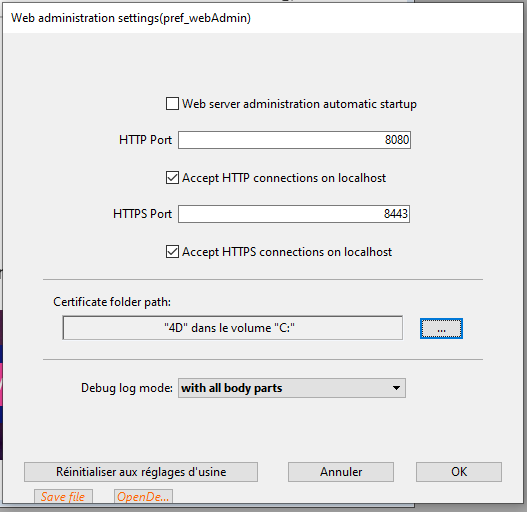
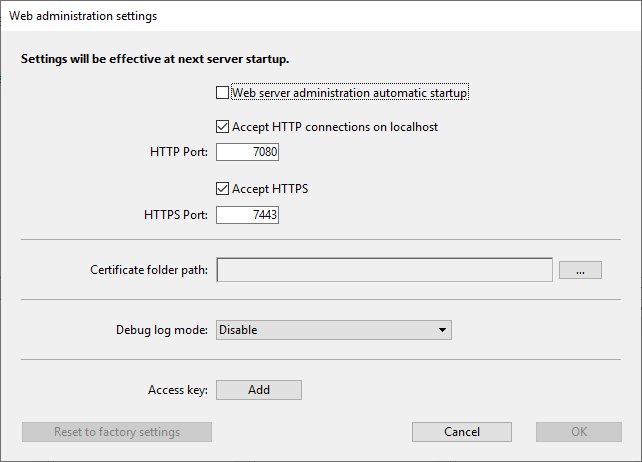
tempo

diff --git a/website/siteConfig.js b/website/siteConfig.js
@@ -37,7 +37,7 @@ const siteConfig = {
   // For top-level user or org sites, the organization is still the same.
   // e.g., for the https://JoelMarcey.github.io site, it would be set like...
   //   organizationName: 'JoelMarcey'
-  // customDocsPath: 'docsPostProcessed', //uniquement local
+  customDocsPath: 'docsPostProcessed', //uniquement local
   docsUrl:'',
 
   // For no header links in the top nav bar -> headerLinks: [],

diff --git a/docs/Admin/webAdmin.md b/docs/Admin/webAdmin.md
@@ -49,16 +49,16 @@ open ~/Desktop/4D.app --webadmin-auto-start true
 
 You can start or stop the `WebAdmin` web server for your project at any moment:
 
-- If you use a 4D application with interface, select **Start/Stop Web admin server** from the **Administration** menu.
+- If you use a 4D application with interface, select **Start/Stop Server** from the **Administration** menu.
 
 - Whether you use 4D application which is headless or not, you can execute the [.start()](API/webServerClass.md#start) or [.stop()](API/webServerClass.md#stop) function on the `WebAdmin` web server once it is instanciated.  
 
 
 ## WebAdmin Settings
 
-You can configure the WebAdmin component using the WebAdmin settings dialog box. Configuring the WebAdmin component is mandatory in particular if you want to define the access key. By default when the access key is not set, access is free. 
+You can configure the WebAdmin component using the WebAdmin settings dialog box. Configuring the WebAdmin component is mandatory in particular if you want to define the [**access key**](#access-key). By default when the access key is not set, access is free. 
 
-To open the WebAdmin settings dialog box, select **WebAdmin Settings** in the **Administration** menu. 
+To open the WebAdmin settings dialog box, select **Settings...** in the **Administration** menu. 
 
 The WebAdmin Settings dialog box is displayed:
 
@@ -70,7 +70,7 @@ Check this option if you want the Admin web server to be automatically launched 
 
 #### HTTP Port 
 
-Port number to use for connections through HTTP to the Admin web server. Default value is 8080. This option is only used:
+Port number to use for connections through HTTP to the Admin web server. Default value is 7080. This option is only used:
 
 - if HTTP connections to the Admin web server are allowed
 - or, if the **Accept HTTP connections on localhost** is checked
@@ -85,7 +85,7 @@ By default, this option is checked.
 
 #### HTTPS Port 
 
-Port number to use for connections through HTTPS to the Admin web server. Default value is 8443. This option is only used:
+Port number to use for connections through HTTPS to the Admin web server. Default value is 7443. This option is only used:
 
 - if HTTPS connections to the Admin web server are allowed
 - or, if the **Accept HTTPS connections on localhost** is checked
